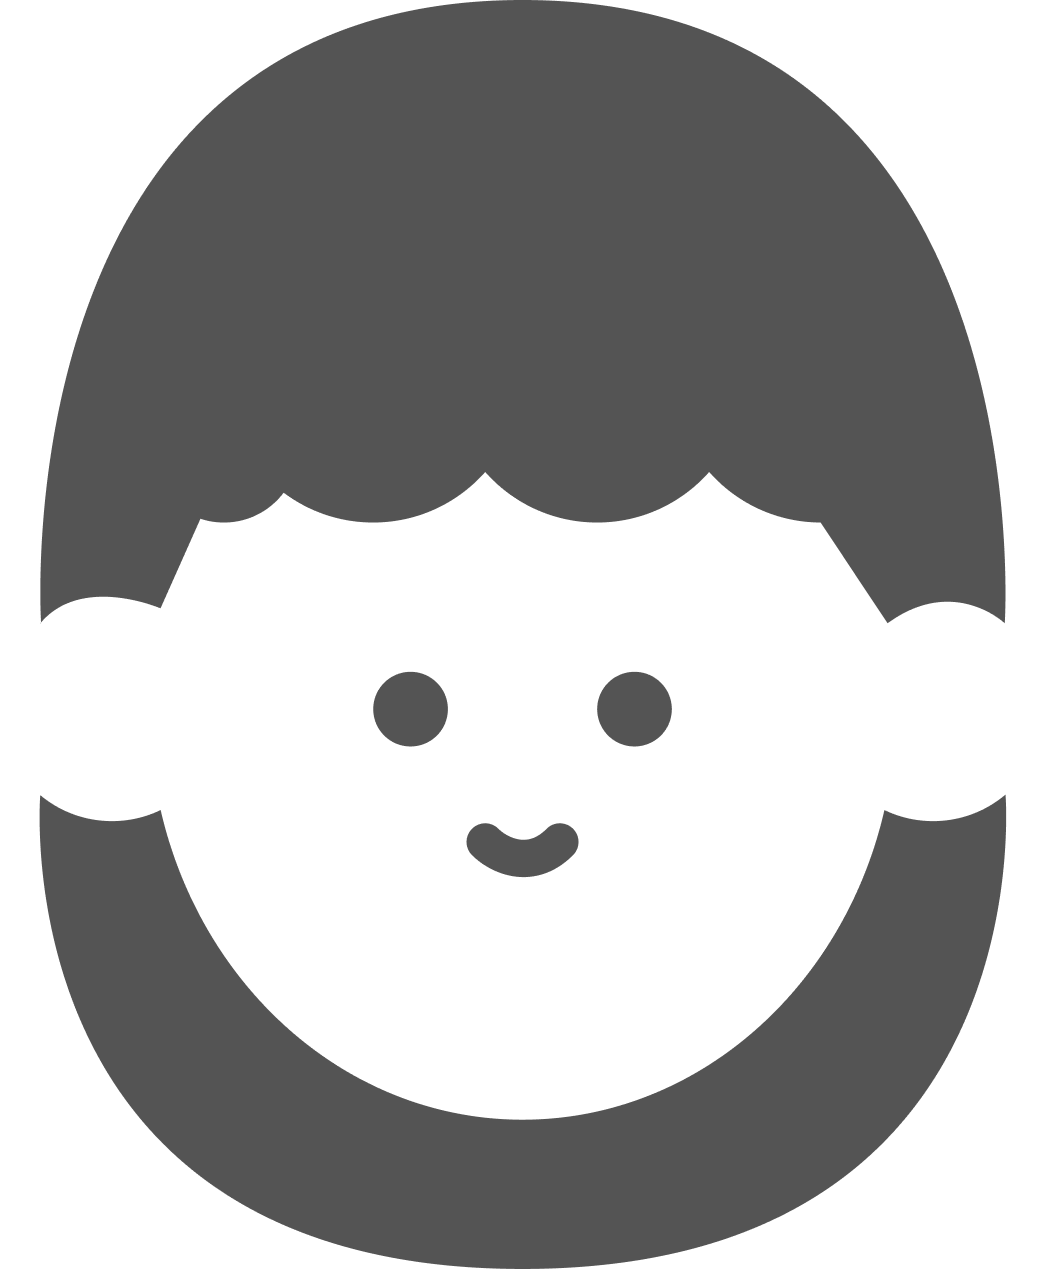
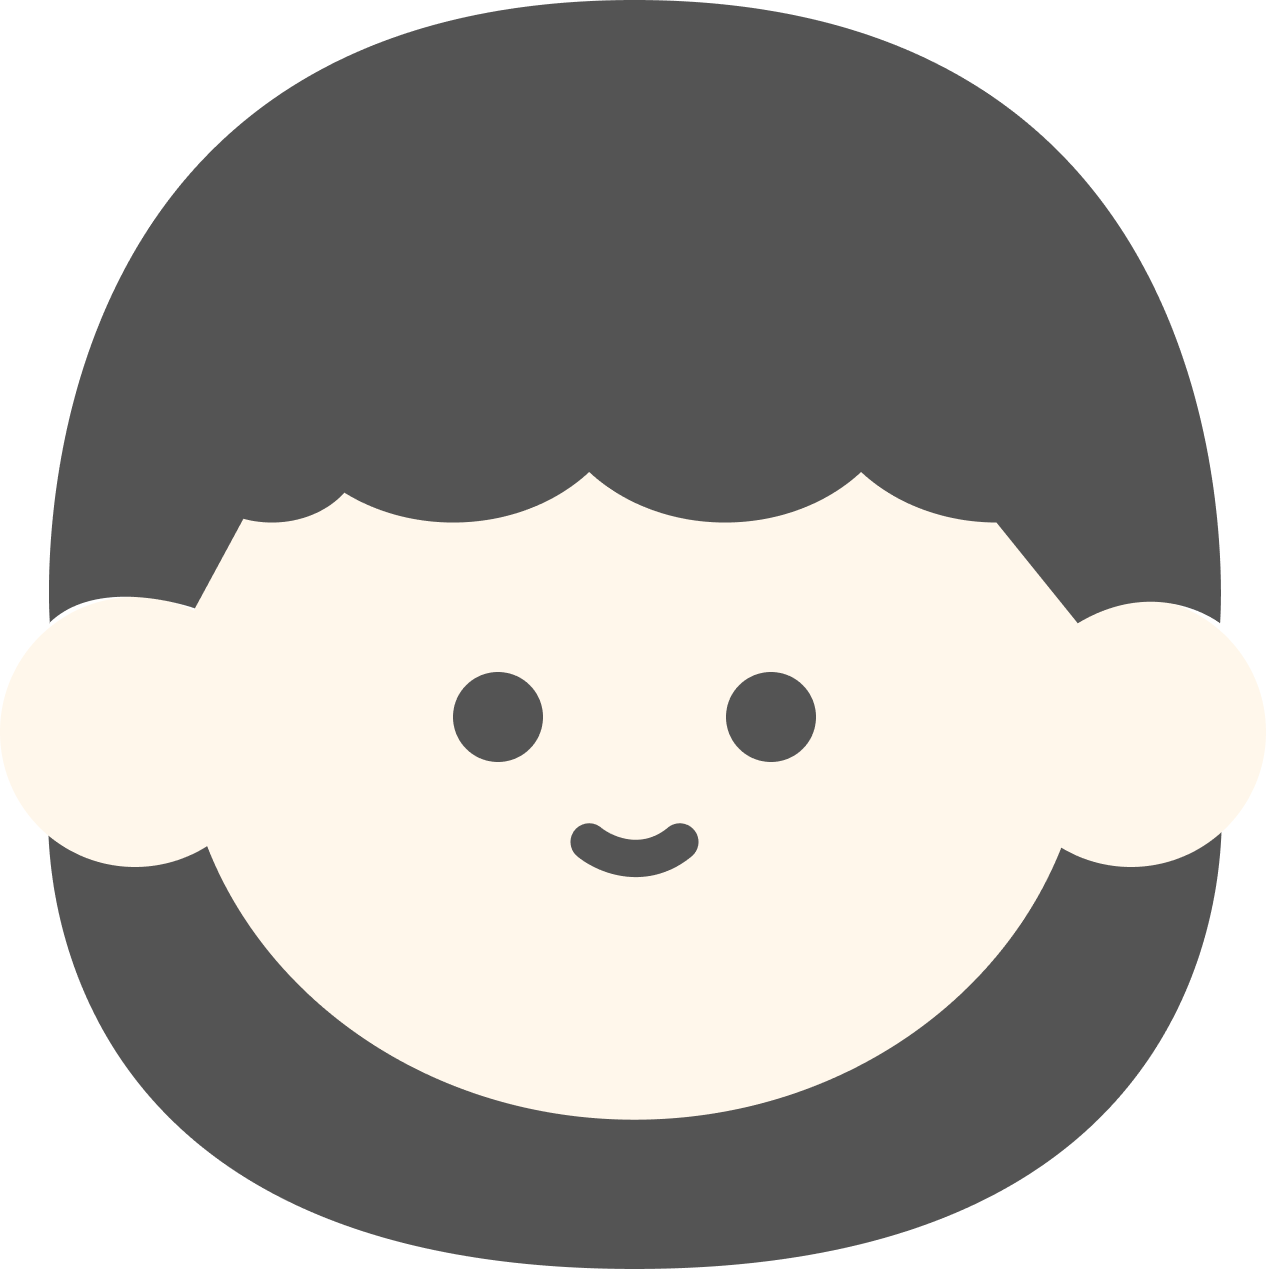
feat:

diff --git a/apps/desserbee-web/src/app/[lang]/(user)/(menu)/my/setting/_components/ProfileSettingForm.tsx b/apps/desserbee-web/src/app/[lang]/(user)/(menu)/my/setting/_components/ProfileSettingForm.tsx
@@ -1,0 +1,152 @@
+'use client';
+
+import { UserContext } from '@/contexts/UserContext';
+import { useState, useRef, useContext } from 'react';
+import Image from 'next/image';
+// import { Camera } from 'lucide-react';
+
+export default function ProfileSettingForm() {
+  const { user, updateUserProfile } = useContext(UserContext);
+  const [nickname, setNickname] = useState(user?.nickname || '');
+  const [profileImage, setProfileImage] = useState(user?.profileImageUrl || '');
+  const [isSubmitting, setIsSubmitting] = useState(false);
+  const fileInputRef = useRef<HTMLInputElement>(null);
+  
+  // 취향 선택 상태
+  const [selectedPreferences, setSelectedPreferences] = useState<string[]>([]);
+  const preferences = ['비건', '글루텐프리', '락토프리', '로우슈가', '키토제닉', '할매픽', '트렌디', '비주얼', '리미티드', '로컬라이징', '꿀조합'];
+
+  const handleImageClick = () => {
+    fileInputRef.current?.click();
+  };
+
+  const handleImageChange = (e: React.ChangeEvent<HTMLInputElement>) => {
+    const file = e.target.files?.[0];
+    if (file) {
+      const imageUrl = URL.createObjectURL(file);
+      setProfileImage(imageUrl);
+    }
+  };
+
+  const togglePreference = (preference: string) => {
+    setSelectedPreferences(prev => 
+      prev.includes(preference) 
+        ? prev.filter(p => p !== preference)
+        : [...prev, preference]
+    );
+  };
+
+  const handleSubmit = async (e: React.FormEvent) => {
+    e.preventDefault();
+    setIsSubmitting(true);
+    
+    try {
+      // await updateUserProfile({ nickname, profileImageUrl: profileImage });
+      alert('프로필이 업데이트되었습니다.');
+    } catch (error) {
+      console.error('프로필 업데이트 실패:', error);
+      alert('프로필 업데이트에 실패했습니다.');
+    } finally {
+      setIsSubmitting(false);
+    }
+  };
+
+  return (
+    <form onSubmit={handleSubmit} className="flex flex-col gap-6 pb-6">
+      {/* 프로필 이미지 */}
+      <div className="flex flex-col items-center mt-4">
+        <div className="relative w-[120px] h-[120px] rounded-lg overflow-hidden bg-gray-300">
+          {profileImage ? (
+            <Image 
+              src={profileImage} 
+              alt="프로필 이미지" 
+              fill 
+              className="object-cover"
+            />
+          ) : (
+            <div className="w-full h-full bg-gray-400"></div>
+          )}
+          <button 
+            type="button"
+            onClick={handleImageClick}
+            className="absolute bottom-2 right-2 bg-white rounded-full p-1.5 shadow-md"
+            aria-label="프로필 이미지 변경"
+          >
+            {/* <Camera size={16} className="text-gray-600" /> */}
+          </button>
+          <input 
+            type="file" 
+            ref={fileInputRef} 
+            onChange={handleImageChange} 
+            accept="image/*" 
+            className="hidden" 
+          />
+        </div>
+      </div>
+
+      {/* 닉네임 */}
+      <div className="flex flex-col gap-2">
+        <label htmlFor="nickname" className="text-[#393939] font-medium text-base">닉네임</label>
+        <input 
+          id="nickname"
+          type="text" 
+          value={nickname} 
+          onChange={(e) => setNickname(e.target.value)} 
+          placeholder="닉네임 (최대 8자, 한글, 영어, 숫자)"
+          maxLength={8}
+          className="w-full p-4 border border-gray-300 rounded-lg text-gray-700 focus:outline-none"
+        />
+      </div>
+
+      {/* 비밀번호 변경 섹션 */}
+      <div className="flex flex-col gap-2">
+        <label className="text-[#393939] font-medium text-base">비밀번호 변경</label>
+        <input 
+          type="password" 
+          placeholder="기존 비밀번호를 입력해주세요."
+          className="w-full p-4 border border-gray-300 rounded-lg text-gray-700 focus:outline-none"
+        />
+        <input 
+          type="password" 
+          placeholder="새로운 비밀번호 (8자 이상, 영어 소문자, 특수문자 포함)"
+          className="w-full p-4 border border-gray-300 rounded-lg text-gray-700 focus:outline-none mt-2"
+        />
+        <input 
+          type="password" 
+          placeholder="새로운 비밀번호 (8자 이상, 영어 소문자, 특수문자 포함) 확인"
+          className="w-full p-4 border border-gray-300 rounded-lg text-gray-700 focus:outline-none mt-2"
+        />
+      </div>
+
+      {/* 취향 선택 */}
+      <div className="flex flex-col gap-2">
+        <label className="text-[#393939] font-medium text-base">취향 선택</label>
+        <div className="flex flex-wrap gap-2">
+          {preferences.map((preference) => (
+            <button
+              key={preference}
+              type="button"
+              className={`px-4 py-2 rounded-full text-sm font-medium transition-colors ${
+                selectedPreferences.includes(preference)
+                  ? 'bg-blue-100 text-blue-700 border border-blue-300'
+                  : 'bg-white text-gray-700 border border-gray-300'
+              }`}
+              onClick={() => togglePreference(preference)}
+            >
+              {preference}
+            </button>
+          ))}
+        </div>
+      </div>
+
+      {/* 완료 버튼 */}
+      <button 
+        type="submit" 
+        className="w-full py-4 bg-gray-400 text-white rounded-lg font-medium mt-4 hover:bg-gray-500 transition-colors"
+        disabled={isSubmitting}
+      >
+        완료하기
+      </button>
+    </form>
+  );
+}

diff --git a/apps/desserbee-web/src/app/[lang]/(user)/(menu)/my/bookmark-list/_components/BookMarkListContainer.tsx b/apps/desserbee-web/src/app/[lang]/(user)/(menu)/my/bookmark-list/_components/BookMarkListContainer.tsx
@@ -1,20 +1,22 @@
 'use client';
-import Image from 'next/image';
-import { BookMarkHeader } from './BookMarkHeader';
 
+import Image from 'next/image';
 import mapImg from '../_assets/svg/map.svg';
 import houseImg from '../_assets/svg/house.svg';
 import beeImg from '../_assets/svg/bee.svg';
 import type { Mate } from '@repo/entity/src/mate';
+import { MyPageSubMenuPageHeader } from '../../_components/MyPageSubMenuPageHeader';
+
 interface BookMarkListContainerProps {
   savedDessertMate: Mate[];
 }
+
 export function BookMarkListContainer({
   savedDessertMate,
 }: BookMarkListContainerProps) {
   return (
-    <div>
-      <BookMarkHeader title="저장 목록" />
+    <>
+      <MyPageSubMenuPageHeader title="저장 목록" />
       <div className="flex flex-col gap-6 md:gap-[61px]">
         <div className="flex flex-col gap-[7.25px] md:gap-[14px]">
           <div className="text-[10px] md:text-[22px] font-semibold">
@@ -90,6 +92,6 @@ export function BookMarkListContainer({
           </div>
         </div>
       </div>
-    </div>
+    </>
   );
 }

diff --git a/apps/desserbee-web/src/contexts/UserContext/index.tsx b/apps/desserbee-web/src/contexts/UserContext/index.tsx
@@ -9,11 +9,13 @@ import type { StaticImageData } from 'next/image';
 interface State {
   user: User | null;
   realProfileImageUrl: string | StaticImageData;
+  updateUserProfile: (profileData: Partial<User>) => void;
 }
 
 const defaultState: State = {
   user: null,
   realProfileImageUrl: '',
+  updateUserProfile: () => {},
 };
 
 export const UserContext = createContext<State>(defaultState);
@@ -39,6 +41,10 @@ export function UserProvider({ children, user: initialUser }: Props) {
     return DefaultFemaleAvatar;
   }, [user])
 
+  const updateUserProfile = (profileData: Partial<User>) => {
+    setUser(prev => prev ? { ...prev, ...profileData } : null);
+  };
+
   useEffect(() => {
     setUser((prev) => {
       if (JSON.stringify(prev) !== JSON.stringify(initialUser)) {
@@ -54,6 +60,7 @@ export function UserProvider({ children, user: initialUser }: Props) {
       value={{
         user,
         realProfileImageUrl,
+        updateUserProfile,
       }}
     >
       {children}

diff --git a/apps/desserbee-web/src/app/[lang]/(user)/mate/[mateId]/page.tsx b/apps/desserbee-web/src/app/[lang]/(user)/mate/[mateId]/page.tsx
@@ -8,8 +8,10 @@ import MatePostSection from "./_components/MatePostSection";
 import MyMateDetailSection from "./_components/MyMateDetailSection";
 import { MateDetailProvider } from "./_contexts/MateDetailContext";
 import MateCommentListSection from "./_components/MateCommentListSection";
+import AuthNextAppRouteRepository from "@repo/infrastructures/src/repositories/authNextAppRouteRepository";
 
 const mateService = new MateService({
+  authRepository: new AuthNextAppRouteRepository(),
   mateRepository: new MateAPIRepository(), 
 })
 
@@ -34,6 +36,8 @@ export default async function MateDetailPage({ params }: WithParams) {
   }
 
   const waitList = waitListResult.status === 'fulfilled' ? waitListResult.value : [];
+
+  console.log('wwwww', waitList);
 
   return (
     <main className="flex flex-col h-[calc(100dvh - 52px)] px-4 gap-4 bg-[#f6f6f6]">

diff --git a/apps/desserbee-web/src/app/[lang]/(user)/(menu)/my/_components/MyPageSubMenuPageHeader/index.tsx b/apps/desserbee-web/src/app/[lang]/(user)/(menu)/my/_components/MyPageSubMenuPageHeader/index.tsx
@@ -1,0 +1,25 @@
+'use client';
+
+import IconButton from '@repo/design-system/components/buttons/IconButton';
+import { IconSize } from '@repo/design-system/components/icons';
+import IconChevronLeft from '@repo/design-system/components/icons/IconChevronLeft';
+import { useRouter } from 'next/navigation';
+
+interface Props {
+  title: string;
+}
+
+export function MyPageSubMenuPageHeader({ title }: Props) {
+  const router = useRouter();
+
+  return (
+    <header
+      className="flex text-center items-center justify-start px-4 py-5 md:py-[34px] gap-[4px]"
+    >
+      <IconButton size={IconSize.s} onClick={() => router.back()}>
+        <IconChevronLeft size={IconSize.s} />
+      </IconButton>
+      <span className="font-semibold text-[14px]">{title}</span>
+    </header>
+  );
+}

diff --git a/apps/desserbee-web/src/app/[lang]/(user)/(menu)/my/bookmark-list/page.tsx b/apps/desserbee-web/src/app/[lang]/(user)/(menu)/my/bookmark-list/page.tsx
@@ -1,11 +1,15 @@
 import { BookMarkListContainer } from './_components/BookMarkListContainer';
 import MateService from '@repo/usecase/src/mateService';
 import MateAPIRepository from '@repo/infrastructures/src/repositories/mateAPIRepository';
+import AuthNextAppRouteRepository from '@repo/infrastructures/src/repositories/authNextAppRouteRepository';
+
+const mateService = new MateService({
+  authRepository: new AuthNextAppRouteRepository(),
+  mateRepository: new MateAPIRepository(),
+});
 
 export default async function MyBookmarkListPage() {
-  const mateService = new MateService({
-    mateRepository: new MateAPIRepository(),
-  });
+  
 
   let savedDessertMate;
   // try {

diff --git a/packages/infrastructures/src/repositories/mateAPIRepository.ts b/packages/infrastructures/src/repositories/mateAPIRepository.ts
@@ -192,8 +192,6 @@ export default class MateAPIRepository
     
     const { from, to, mateCategoryId, keyword } = data;
 
-    
-
     const response = await fetch<MateListRequest, MateRawAllListResponse>({
       method: 'GET',
       url: `${this.endpoint}/mates`,
@@ -216,7 +214,7 @@ export default class MateAPIRepository
       throw new Error('data is required');
     }
 
-    const response = await fetch<MateRequest, RawMate>({
+    const response = await fetch<MateRequest, any>({
       ...(authorization && {
         headers: {
           Authorization: authorization,

diff --git a/packages/usecase/src/mateService.ts b/packages/usecase/src/mateService.ts
@@ -81,8 +81,8 @@ export default class MateService {
 
     const authorization = await this.authRepository?.getAuthorization();
     const response = await this.mateRepository.getDetails({
-      data,
       authorization,
+      data,
     });
 
     return response;
@@ -98,7 +98,7 @@ export default class MateService {
     return response;
   }
 
-  async getWaitList(data: MateRequest) {
+  async getWaitList(data: MateRequest): Promise<Mate[]> {
     if (!this.mateRepository) {
       throw new Error('mateRepository is not set');
     }

diff --git a/apps/desserbee-web/src/app/[lang]/(user)/(menu)/community/dessert/mate/_components/CommunityMateSection/index.tsx b/apps/desserbee-web/src/app/[lang]/(user)/(menu)/community/dessert/mate/_components/CommunityMateSection/index.tsx
@@ -3,8 +3,10 @@ import MateService from '@repo/usecase/src/mateService';
 import { CommunityMateListProvider } from '../../_contexts/CommunityMateListContext';
 import CommunityMateList from '../CommunityMateList';
 import ScrollGradient from '../../../_components/ScrollGradient';
+import AuthNextAppRouteRepository from '@repo/infrastructures/src/repositories/authNextAppRouteRepository';
 
 const mateService = new MateService({
+  authRepository: new AuthNextAppRouteRepository(),
   mateRepository: new MateAPIRepository(),
 })
 

diff --git a/apps/desserbee-web/src/app/[lang]/(user)/(menu)/my/setting/page.tsx b/apps/desserbee-web/src/app/[lang]/(user)/(menu)/my/setting/page.tsx
@@ -1,3 +1,13 @@
+import { MyPageSubMenuPageHeader } from "../_components/MyPageSubMenuPageHeader";
+import ProfileSettingForm from "./_components/ProfileSettingForm";
+
 export default function MySettingPage() {
-  
+  return (
+    <div className="flex flex-col h-full bg-gray-50">
+      <MyPageSubMenuPageHeader title="프로필 설정" />
+      <div className="flex-1 p-4">
+        <ProfileSettingForm />
+      </div>
+    </div>
+  )
 }

diff --git a/packages/infrastructures/src/repositories/authNextAppRouteRepository.ts b/packages/infrastructures/src/repositories/authNextAppRouteRepository.ts
@@ -8,7 +8,8 @@ export default class AuthNextAppRouteRepository implements AuthRepository {
   }
   
   async getAuthorization(): Promise<string | null> {
-    return (await headers()).get('authorization');
+    const headerList = await headers();
+    return headerList.get('authorization');
   }
   
   refreshAccessToken(): Promise<JWTTokens> {

diff --git a/apps/desserbee-web/src/app/[lang]/(user)/mate/[mateId]/_components/CurrentApplyList/index.tsx b/apps/desserbee-web/src/app/[lang]/(user)/mate/[mateId]/_components/CurrentApplyList/index.tsx
@@ -29,6 +29,8 @@ export default function CurrentApplyList({ waitList }: Props) {
   const { user } = useContext(UserContext);
   const [isOpen, setIsOpen] = useState(false);
 
+  console.log(waitList);
+
   const handleClick = () => {
     setIsOpen(prev => !prev);
   };
